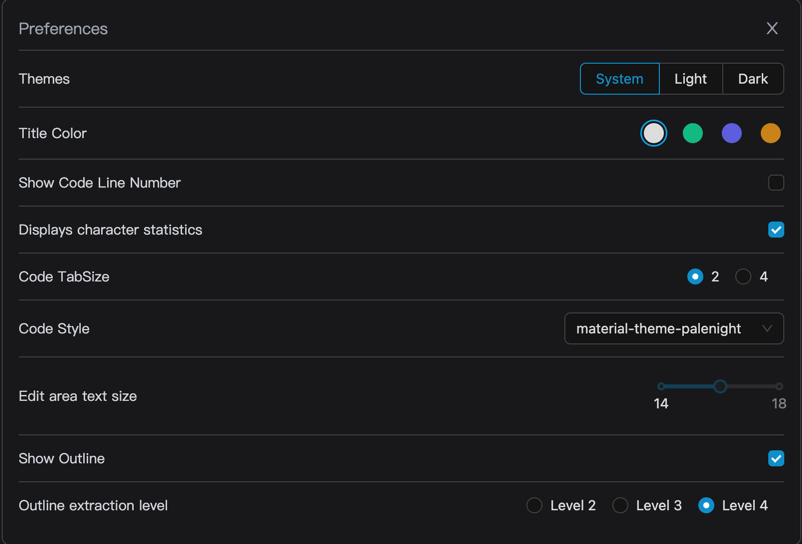
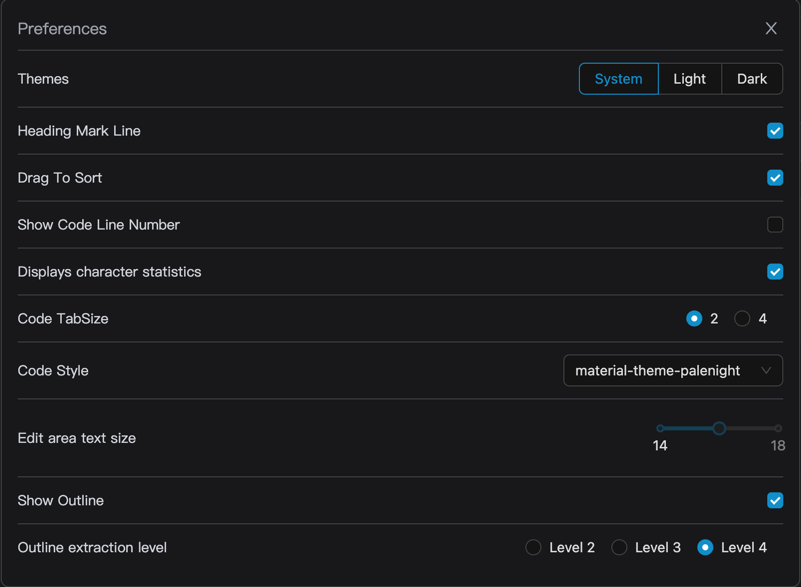
# Conflicts: #	README.md

diff --git a/README.md b/README.md
@@ -1,16 +1,13 @@
-# Bluestone
-A WYSIWYG markdown editor.
-[Download](https://github.com/1943time/bluestone/releases/latest)
- | [中文文档](./ZH_README.md)
-
-If you want to experience it immediately, can open the [web demo](https://ed.bluemd.me), it is recommended to use chrome
+<div style="display: flex; justify-content: center; flex-direction: column;align-items: center;padding-top: 20px">
+  <img src="./build/icon.png" style="width:60px"/>
+  <p style="text-align: center">A WYSIWYG markdown editor. <a href="https://github.com/1943time/bluestone/releases/latest" target="_blank">Download</a><br/>improving the Markdown reading and editing experience</p>
+</div>
 
 # Brief introduction
 
 Bluestone is an WYSIWYG Markdown editor，
-use [gfm](https://github.github.com/gfm/) syntax，expanded [Mermaid](https://mermaid.js.org/) graphics [Katex](https://katex.org/) formula，
-Supports light and dark color schemes, with the goal of improving the Markdown reading
-and editing experience. and generate your Markdown files into online documents in the easiest and fastest way.
+use [GFM](https://github.github.com/gfm/) syntax，expanded [Mermaid](https://mermaid.js.org/) graphics [Katex](https://katex.org/) formula，
+Supports light and dark color theme. and generate your Markdown files into online documents in the easiest and fastest way.
 [documentation](https://pb.bluemd.me/official/book/docs/introduction)
 
 ![](./docs/assets/d1.png)
@@ -19,8 +16,12 @@ and editing experience. and generate your Markdown files into online documents i
 
 ![](./docs/assets/syntax.gif)
 
+## Drag
+Freely drag to sort document elements
+![](./docs/assets/drag.gif)
+
 ## Share
-bluestone provides a function to automatically extract markdown files and share them, or combine multiple Markdown documents into a book at the same time [more](https://pb.bluemd.me/official/book/docs/share)
+bluestone provides an optional sharing function that can automatically extract Markdown files and share them to the network, or merge multiple Markdown documents into a book at the same time [more](https://pb.bluemd.me/official/book/docs/share)
 
 ![](./docs/assets/share.gif)
 
